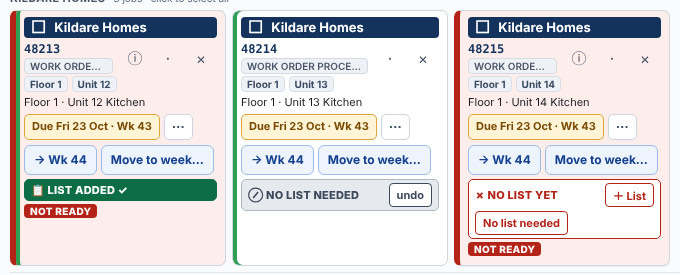
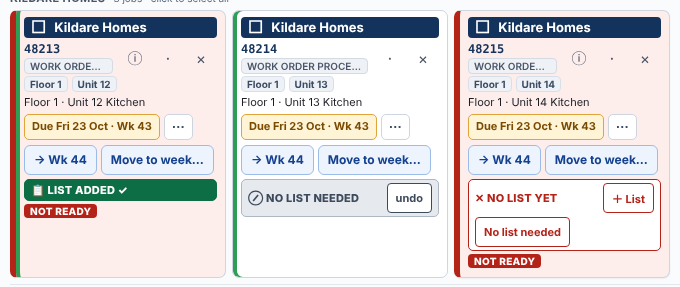
List badge: ✕ instead of ✗ (the test runner counts a line starting ✗ as a failure), badge buttons 30 px tall (finger-sized); attack5-carryover real-drag test given a taller screen (cards are one line taller); screenshots
Claude-Session: https://claude.ai/code/session_01RwZXxi2M9eLcfiJTmfJT9R

diff --git a/index.html b/index.html
@@ -86,7 +86,7 @@ tr.lst-ok>td:first-child{box-shadow:inset 4px 0 0 #2d9e54}
 .dl-st.na{background:#e6e9ee;border-color:#aeb7c4;color:#3d4a5c}
 .dl-st.no{background:#fff;border-color:#b42318;color:#b42318}
 .dl-st .dl-tx{flex:1 1 auto;min-width:0}
-.dl-st button{font:inherit;font-size:11px;font-weight:700;border-radius:4px;padding:3px 7px;min-height:24px;cursor:pointer;border:1px solid currentColor;background:#fff;color:inherit;white-space:nowrap}
+.dl-st button{font:inherit;font-size:11px;font-weight:700;border-radius:4px;padding:3px 8px;min-height:30px;cursor:pointer;border:1px solid currentColor;background:#fff;color:inherit;white-space:nowrap}
 button.dl-st{cursor:pointer;width:100%;text-align:left;font-family:inherit}
 .dchip.done .dl-st{opacity:.6}
 .stp-b{display:inline-block;font-family:-apple-system,BlinkMacSystemFont,'Segoe UI',sans-serif;font-size:10px;font-weight:600;line-height:1.4;color:#4a5568;background:#eef1f5;border:1px solid #d5dbe3;border-radius:4px;padding:0 5px;margin-left:5px;white-space:nowrap;vertical-align:middle;text-transform:none;letter-spacing:0;text-decoration:none;max-width:min(100%,240px);overflow:hidden;text-overflow:ellipsis;box-sizing:border-box}
@@ -8473,7 +8473,7 @@ function dlBadge(o,st){
     return `<button class="dl-st ok" data-dlopen="${w}" title="This job has a cutting list — tap to open it">📋 LIST ADDED ✓${n>1?' ('+n+')':''}</button>`;}
   if(phHas(o))return `<div class="dl-st ok" title="A photo of the paper cutting list is on this job">📷 PAPER LIST PHOTO ✓</div>`;
   if(lsNA(o))return `<div class="dl-st na" title="${escA('Marked no list needed'+(o.listNA.by?' by '+o.listNA.by:'')+(o.listNA.at?' · '+fmt(o.listNA.at):''))}"><span class="dl-tx">⊘ NO LIST NEEDED</span>${can&&!st?`<button data-dlnaundo="${w}" title="Undo — this job does need a cutting list">undo</button>`:''}</div>`;
-  return `<div class="dl-st no" title="No cutting list on this job yet"><span class="dl-tx">✗ NO LIST YET</span>${can&&!st?`${V2()?`<button class="dlist-add" data-dladd="${w}" title="＋ Add a cutting list for ${w} (opens the cutting list window)">＋ List</button>`:''}<button data-dlna="${w}" title="This job does not need a cutting list">No list needed</button>`:''}</div>`;
+  return `<div class="dl-st no" title="No cutting list on this job yet"><span class="dl-tx">✕ NO LIST YET</span>${can&&!st?`${V2()?`<button class="dlist-add" data-dladd="${w}" title="＋ Add a cutting list for ${w} (opens the cutting list window)">＋ List</button>`:''}<button data-dlna="${w}" title="This job does not need a cutting list">No list needed</button>`:''}</div>`;
 }
 function dlOpen(wo){const ls2=lists().filter(l=>(l.wos||[]).includes(wo));if(!ls2.length)return;
   if(ls2.length>1||!V2()){showReadiness([wo],wo,true);return;} // several lists: the check window names each one

diff --git a/tests/dates/attack5-carryover.test.js b/tests/dates/attack5-carryover.test.js
@@ -194,6 +194,7 @@ const LIT = () => ({ prev: document.getElementById('wkb-prev').className, next: 
     });
     // real drag: book a van as the Production Manager, and drop on the week bar
     await p.locator('.dchip[data-dw="WO-R2"] .dchip-t').count().then(async n => { if (!n) await p.evaluate(async () => { await __go('1'); }); });
+    await p.setViewportSize({ width: (p.viewportSize() || { width: 1400 }).width, height: 2200 }); // d24: the cards are one line taller (list badge) — keep the card and the van cell on one screen for the real drag
     await p.locator('.dchip[data-dw="WO-R2"] .dchip-t').dragTo(p.locator('.dcell[data-cell^="IVECO|Thu|"]'));
     await p.waitForTimeout(150);
     const B2 = await p.evaluate(async () => { const ov = __ovl().join(); if (document.querySelector('.pod-ovl [data-why]')) await __why('Production'); __closeAll(); const o = __g('WO-R2'); return { ov: ov.slice(0, 200), veh: o.delVeh, day: o.delDay, wk: o.delWk }; });
